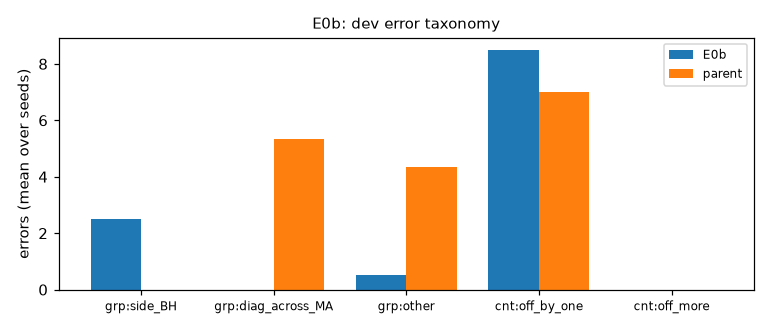
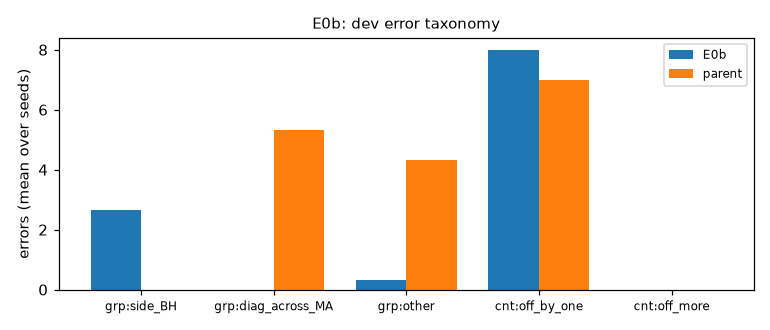
FINAL table complete: second probe (plain CNN) legacy 19.2% -> new data 100% on marker-40 (+80.8 pt); E0b 3 seeds; E3c 3 seeds

diff --git a/synthesis_v2/docs/EXPERIMENTS.md b/synthesis_v2/docs/EXPERIMENTS.md
@@ -161,37 +161,37 @@ Canonical preprocessing applied to *both* the synthetic and the real images cuts
 
 ### Results
 <!-- results:E0b -->
-**Probe:** hybrid | **input:** canonical | **dataset:** `data/legacy_n850_s0` (850/class) | **seeds:** 2 | **steps used:** 7500 (best at 6000) | **train time:** 17.1 min/run
+**Probe:** hybrid | **input:** canonical | **dataset:** `data/legacy_n850_s0` (850/class) | **seeds:** 3 | **steps used:** 7667 (best at 6000) | **train time:** 17.4 min/run
 
-| Metric (dev, pen-40) | E0b (n=2) | E0a (n=3) | Δ vs parent [95% CI] |
+| Metric (dev, pen-40) | E0b (n=3) | E0a (n=3) | Δ vs parent [95% CI] |
 |---|---|---|---|
-| CER | 28.7% ± 3.7 | 41.7% ± 7.2 | -12.9 pt [-29.6, +5.8] |
-| Accuracy | 71.2% ± 3.7 | 58.3% ± 7.2 | +12.9 pt [-5.8, +29.6] |
-| Top-3 | 96.2% ± 1.3 | 83.3% ± 1.2 | +12.9 pt |
-| Macro-F1 | 0.670 ± 0.034 | 0.530 ± 0.084 | +0.140 |
-| Aicme acc | 92.5% ± 2.5 | 75.8% ± 2.4 | +16.7 pt |
-| Mean conf | 97.5% ± 0.4 | 92.2% ± 3.9 | +5.3 pt |
-| NLL | 2.299 ± 0.220 | 3.019 ± 0.244 | -0.720 [-2.311, +0.985] |
-| ECE | 0.277 ± 0.019 | 0.355 ± 0.042 | -0.078 |
-| Synthetic val acc | 99.1% ± 0.1 | 98.6% ± 0.1 | +0.4 pt |
-| Synth→real gap (val acc − dev acc) | 27.8% ± 3.6 | 40.3% ± 7.1 | -12.5 pt |
-| Dev-stress acc (supplementary, DR-022) | 67.3% (n=2) | 38.2% (n=3) | +29.1 pt |
+| CER | 27.5% ± 3.5 | 41.7% ± 7.2 | -14.2 pt [-29.2, +2.5] |
+| Accuracy | 72.5% ± 3.5 | 58.3% ± 7.2 | +14.2 pt [-2.5, +29.2] |
+| Top-3 | 96.7% ± 1.2 | 83.3% ± 1.2 | +13.3 pt |
+| Macro-F1 | 0.675 ± 0.028 | 0.530 ± 0.084 | +0.145 |
+| Aicme acc | 92.5% ± 2.0 | 75.8% ± 2.4 | +16.7 pt |
+| Mean conf | 97.6% ± 0.4 | 92.2% ± 3.9 | +5.4 pt |
+| NLL | 2.190 ± 0.236 | 3.019 ± 0.244 | -0.829 [-2.343, +0.789] |
+| ECE | 0.273 ± 0.016 | 0.355 ± 0.042 | -0.082 |
+| Synthetic val acc | 99.1% ± 0.1 | 98.6% ± 0.1 | +0.5 pt |
+| Synth→real gap (val acc − dev acc) | 26.6% ± 3.4 | 40.3% ± 7.1 | -13.7 pt |
+| Dev-stress acc (supplementary, DR-022) | 69.0% (n=3) | 38.2% (n=3) | +30.8 pt |
 
 | Dev-stress by degradation | blur | lowres | jpeg | rotate | contrast | shadow |
 |---|---|---|---|---|---|---|
-| E0b | 71% | 71% | 70% | 70% | 72% | 49% |
+| E0b | 72% | 72% | 71% | 72% | 73% | 52% |
 | E0a | 28% | 32% | 52% | 47% | 13% | 56% |
 
-**Blank-page control:** E (0.96), H (0.79)
+**Blank-page control:** E (0.96), H (0.79), A (0.59)
 
 | Per batch (dev CER) | pen-1 | pen-2 |
 |---|---|---|
-| E0b | 27.5% | 30.0% |
+| E0b | 23.3% | 31.7% |
 | E0a | 53.3% | 30.0% |
 
 | Error taxonomy (mean errors/seed) | group_side_BH | group_diag_across_MA | group_other | count_off_by_one | count_off_more |
 |---|---|---|---|---|---|
-| E0b | 2.5 | 0.0 | 0.5 | 8.5 | 0.0 |
+| E0b | 2.7 | 0.0 | 0.3 | 8.0 | 0.0 |
 | E0a | 0.0 | 5.3 | 4.3 | 7.0 | 0.0 |
 
 **Figures:** [curves](results/figures/E0b/learning_curves.png) · [confusion](results/figures/E0b/confusion_dev.png) · [taxonomy](results/figures/E0b/taxonomy_dev.png)
@@ -910,28 +910,28 @@ Every training sample goes from E1d render to proxy detector v1, then JSON, then
 
 ### Results
 <!-- results:E3c -->
-**Probe:** hybrid | **input:** render | **dataset:** `data/e3c_n850_s0` (850/class) | **seeds:** 1 | **steps used:** 8000 (best at 7500) | **train time:** 17.1 min/run
+**Probe:** hybrid | **input:** render | **dataset:** `data/e3c_n850_s0` (850/class) | **seeds:** 3 | **steps used:** 8000 (best at 7500) | **train time:** 18.0 min/run
 
-| Metric (dev, pen-40) | E3c (n=1) | E3a (n=1) | Δ vs parent [95% CI] |
+| Metric (dev, pen-40) | E3c (n=3) | E3a (n=1) | Δ vs parent [95% CI] |
 |---|---|---|---|
-| CER | 0.0% | 0.0% | -0.0 pt [-0.0, -0.0] |
-| Accuracy | 100.0% | 100.0% | +0.0 pt [+0.0, +0.0] |
-| Top-3 | 100.0% | 100.0% | +0.0 pt |
-| Macro-F1 | 1.000 | 1.000 | +0.000 |
-| Aicme acc | 100.0% | 100.0% | +0.0 pt |
-| Mean conf | 99.5% | 100.0% | -0.5 pt |
-| NLL | 0.006 | 0.000 | +0.005 [+0.001, +0.014] |
-| ECE | 0.005 | 0.000 | +0.005 |
-| Synthetic val acc | 98.7% | 100.0% | -1.3 pt |
-| Synth→real gap (val acc − dev acc) | -1.3% | 0.0% | -1.3 pt |
-| Dev-stress acc (supplementary, DR-022) | 85.0% (n=1) | 84.2% (n=1) | +0.8 pt |
+| CER | 0.0% ± 0.0 | 0.0% | -0.0 pt [-0.0, -0.0] |
+| Accuracy | 100.0% ± 0.0 | 100.0% | +0.0 pt [+0.0, +0.0] |
+| Top-3 | 100.0% ± 0.0 | 100.0% | +0.0 pt |
+| Macro-F1 | 1.000 ± 0.000 | 1.000 | +0.000 |
+| Aicme acc | 100.0% ± 0.0 | 100.0% | +0.0 pt |
+| Mean conf | 99.6% ± 0.1 | 100.0% | -0.4 pt |
+| NLL | 0.004 ± 0.001 | 0.000 | +0.004 [+0.001, +0.010] |
+| ECE | 0.004 ± 0.001 | 0.000 | +0.004 |
+| Synthetic val acc | 98.8% ± 0.1 | 100.0% | -1.2 pt |
+| Synth→real gap (val acc − dev acc) | -1.2% ± 0.1 | 0.0% | -1.2 pt |
+| Dev-stress acc (supplementary, DR-022) | 85.4% (n=3) | 84.2% (n=1) | +1.2 pt |
 
 | Dev-stress by degradation | blur | lowres | jpeg | rotate | contrast | shadow |
 |---|---|---|---|---|---|---|
-| E3c | 100% | 100% | 100% | 100% | 100% | 10% |
+| E3c | 100% | 100% | 100% | 100% | 100% | 12% |
 | E3a | 100% | 100% | 100% | 100% | 100% | 5% |
 
-**Blank-page control:** B (0.29)
+**Blank-page control:** B (0.29), B (0.32), H (0.26)
 
 | Per batch (dev CER) | pen-1 | pen-2 |
 |---|---|---|
@@ -1280,11 +1280,12 @@ _(pending: queued at the head of screen2)_
 
 | Pipeline | Marker-40 accuracy | CER | Δ accuracy vs legacy generator E0b [95% CI] |
 |---|---|---|---|
-| Frozen pipeline **E2c** (calibrated ranges) | **98.3 ± 1.2%** | 1.7% | +35.8 pt [+22.1, +49.6] |
-| **E2c-prior** (prior ranges; recommended per DR-026) | **100%** (all 3 seeds) | 0% | +37.5 pt [+23.8, +51.2] |
+| Frozen pipeline **E2c** (calibrated ranges) | **98.3 ± 1.2%** | 1.7% | +41.7 pt [+28.3, +55.0] |
+| **E2c-prior** (prior ranges; recommended per DR-026) | **100%** (all 3 seeds) | 0% | +43.3 pt [+30.0, +56.7] |
+| Second probe (plain CNN): E2c vs E0b | **100% vs 19.2%** | | +80.8 pt [+69.2, +90.8] |
 | **E1c** | **100%** (all 3 seeds) | 0% | |
 | Team's reported baseline | 42.5% | 57.5% | |
 
 Narrative and conclusions are in [REPORT_NOTES.md](REPORT_NOTES.md#final-results-held-out-marker-40-the-teams-wild-test-set).
 
-*Pending rows:* the second probe (plain CNN) at E0b/E1d/E2c, E3c seeds 1–2, E0b seed 2. The table is re-run when they finish.
+*All rows are complete as of 2026-10-19 02:30. E0b now has 3 seeds (56.7 ± 8.2%), so every Δ vs E0b is computed against the 3-seed reference.* The table is re-run when they finish.

diff --git a/synthesis_v2/docs/results/final_table.md b/synthesis_v2/docs/results/final_table.md
@@ -8,22 +8,25 @@
 | legacy-augmented | checkpoint | 1 | 85.0% | 15.0% |  | 40.0% | 0.098 | 45.0% | 91.3% | 10.84 | 80.0% | 90.0% |
 | legacy-hybrid-canonical | checkpoint | 1 | 47.5% | 52.5% |  | 90.0% | 0.467 | 100.0% | 97.9% | 6.89 | 45.0% | 50.0% |
 | legacy-augmented-canonical | checkpoint | 1 | 25.0% | 75.0% |  | 92.5% | 0.702 | 87.5% | 96.2% | 1.80 | 25.0% | 25.0% |
-| E0a | hybrid | 3 | 64.2 ± 7.2% | 35.8 ± 7.2% | -26.7 [-40.0, -14.2] | 77.5 ± 2.0% | 0.317 | 77.5 ± 4.1% | 94.4 ± 1.6% | 5.56 | 50.0% | 78.3% |
-| E0b | hybrid | 2 | 37.5% | 62.5% |  | 92.5 ± 5.0% | 0.588 | 95.0 ± 2.5% | 95.6 ± 1.4% | 2.73 | 27.5% | 47.5% |
-| E0c | hybrid | 3 | 49.2 ± 4.7% | 50.8 ± 4.7% | -11.7 [-24.2, -0.0] | 90.0 ± 5.4% | 0.476 | 100.0% | 96.4 ± 1.7% | 3.72 | 31.7% | 66.7% |
-| E1a-prior | hybrid | 3 | 12.5 ± 5.4% | 87.5 ± 5.4% | +25.0 [+9.6, +39.2] | 100.0% | 0.868 | 100.0% | 98.6 ± 1.3% | 0.79 | 16.7% | 8.3% |
-| E1a | hybrid | 3 | 24.2 ± 4.2% | 75.8 ± 4.2% | +13.3 [-3.3, +28.8] | 98.3 ± 1.2% | 0.716 | 100.0% | 97.8 ± 1.3% | 2.05 | 26.7% | 21.7% |
-| E1b | hybrid | 3 | 22.5 ± 3.5% | 77.5 ± 3.5% | +15.0 [-0.0, +30.0] | 97.5 ± 3.5% | 0.752 | 100.0% | 98.6 ± 0.5% | 1.77 | 21.7% | 23.3% |
-| E1c | hybrid | 3 | 0.0% | 100.0% | +37.5 [+23.8, +51.2] | 100.0% | 1.000 | 100.0% | 100.0 ± 0.0% | 0.00 | 0.0% | 0.0% |
-| E1d | hybrid | 3 | 0.8 ± 1.2% | 99.2 ± 1.2% | +36.7 [+22.9, +50.0] | 100.0% | 0.991 | 100.0% | 99.9 ± 0.2% | 0.02 | 1.7% | 0.0% |
-| E2a | hybrid | 1 | 0.0% | 100.0% | +37.5 [+23.8, +51.2] | 100.0% | 1.000 | 100.0% | 100.0% | 0.00 | 0.0% | 0.0% |
-| E2b | hybrid | 1 | 0.0% | 100.0% | +37.5 [+23.8, +51.2] | 100.0% | 1.000 | 100.0% | 100.0% | 0.00 | 0.0% | 0.0% |
-| E2c | hybrid | 3 | 1.7 ± 1.2% | 98.3 ± 1.2% | +35.8 [+22.1, +49.6] | 100.0% | 0.982 | 100.0% | 99.5 ± 0.5% | 0.03 | 1.7% | 1.7% |
-| E2c-prior | hybrid | 3 | 0.0% | 100.0% | +37.5 [+23.8, +51.2] | 100.0% | 1.000 | 100.0% | 100.0 ± 0.0% | 0.00 | 0.0% | 0.0% |
-| E2d-v2 | hybrid | 1 | 0.0% | 100.0% | +37.5 [+23.8, +51.2] | 100.0% | 1.000 | 100.0% | 99.1% | 0.01 | 0.0% | 0.0% |
-| E3a | hybrid | 1 | 0.0% | 100.0% | +37.5 [+23.8, +51.2] | 100.0% | 1.000 | 100.0% | 100.0% | 0.00 | 0.0% | 0.0% |
-| E3b | hybrid | 1 | 0.0% | 100.0% | +37.5 [+23.8, +51.2] | 100.0% | 1.000 | 100.0% | 94.4% | 0.06 | 0.0% | 0.0% |
-| E3c | hybrid | 1 | 0.0% | 100.0% | +37.5 [+23.8, +51.2] | 100.0% | 1.000 | 100.0% | 99.9% | 0.00 | 0.0% | 0.0% |
+| E0a | hybrid | 3 | 64.2 ± 7.2% | 35.8 ± 7.2% | -20.8 [-32.5, -10.0] | 77.5 ± 2.0% | 0.317 | 77.5 ± 4.1% | 94.4 ± 1.6% | 5.56 | 50.0% | 78.3% |
+| E0b | hybrid | 3 | 43.3 ± 8.2% | 56.7 ± 8.2% |  | 86.7 ± 9.2% | 0.527 | 95.8 ± 2.4% | 95.3 ± 1.3% | 3.41 | 31.7% | 55.0% |
+| E0b | alt | 3 | 80.8 ± 5.1% | 19.2 ± 5.1% |  | 50.8 ± 4.7% | 0.129 | 67.5 ± 20.7% | 93.3 ± 1.6% | 18.00 | 76.7% | 85.0% |
+| E0c | hybrid | 3 | 49.2 ± 4.7% | 50.8 ± 4.7% | -5.8 [-17.5, +5.0] | 90.0 ± 5.4% | 0.476 | 100.0% | 96.4 ± 1.7% | 3.72 | 31.7% | 66.7% |
+| E1a-prior | hybrid | 3 | 12.5 ± 5.4% | 87.5 ± 5.4% | +30.8 [+16.7, +45.0] | 100.0% | 0.868 | 100.0% | 98.6 ± 1.3% | 0.79 | 16.7% | 8.3% |
+| E1a | hybrid | 3 | 24.2 ± 4.2% | 75.8 ± 4.2% | +19.2 [+3.3, +34.2] | 98.3 ± 1.2% | 0.716 | 100.0% | 97.8 ± 1.3% | 2.05 | 26.7% | 21.7% |
+| E1b | hybrid | 3 | 22.5 ± 3.5% | 77.5 ± 3.5% | +20.8 [+6.7, +35.0] | 97.5 ± 3.5% | 0.752 | 100.0% | 98.6 ± 0.5% | 1.77 | 21.7% | 23.3% |
+| E1c | hybrid | 3 | 0.0% | 100.0% | +43.3 [+30.0, +56.7] | 100.0% | 1.000 | 100.0% | 100.0 ± 0.0% | 0.00 | 0.0% | 0.0% |
+| E1d | hybrid | 3 | 0.8 ± 1.2% | 99.2 ± 1.2% | +42.5 [+29.2, +55.8] | 100.0% | 0.991 | 100.0% | 99.9 ± 0.2% | 0.02 | 1.7% | 0.0% |
+| E1d | alt | 3 | 0.0% | 100.0% | +80.8 [+69.2, +90.8] | 100.0% | 1.000 | 100.0% | 98.7 ± 0.6% | 0.01 | 0.0% | 0.0% |
+| E2a | hybrid | 1 | 0.0% | 100.0% | +43.3 [+30.0, +56.7] | 100.0% | 1.000 | 100.0% | 100.0% | 0.00 | 0.0% | 0.0% |
+| E2b | hybrid | 1 | 0.0% | 100.0% | +43.3 [+30.0, +56.7] | 100.0% | 1.000 | 100.0% | 100.0% | 0.00 | 0.0% | 0.0% |
+| E2c | hybrid | 3 | 1.7 ± 1.2% | 98.3 ± 1.2% | +41.7 [+28.3, +55.0] | 100.0% | 0.982 | 100.0% | 99.5 ± 0.5% | 0.03 | 1.7% | 1.7% |
+| E2c | alt | 3 | 0.0% | 100.0% | +80.8 [+69.2, +90.8] | 100.0% | 1.000 | 100.0% | 98.1 ± 0.4% | 0.02 | 0.0% | 0.0% |
+| E2c-prior | hybrid | 3 | 0.0% | 100.0% | +43.3 [+30.0, +56.7] | 100.0% | 1.000 | 100.0% | 100.0 ± 0.0% | 0.00 | 0.0% | 0.0% |
+| E2d-v2 | hybrid | 1 | 0.0% | 100.0% | +43.3 [+30.0, +56.7] | 100.0% | 1.000 | 100.0% | 99.1% | 0.01 | 0.0% | 0.0% |
+| E3a | hybrid | 1 | 0.0% | 100.0% | +43.3 [+30.0, +56.7] | 100.0% | 1.000 | 100.0% | 100.0% | 0.00 | 0.0% | 0.0% |
+| E3b | hybrid | 1 | 0.0% | 100.0% | +43.3 [+30.0, +56.7] | 100.0% | 1.000 | 100.0% | 94.4% | 0.06 | 0.0% | 0.0% |
+| E3c | hybrid | 3 | 0.0% | 100.0% | +43.3 [+30.0, +56.7] | 100.0% | 1.000 | 100.0% | 99.8 ± 0.1% | 0.00 | 0.0% | 0.0% |
 | E3-ref (detector + rules) | rules | — | 2.5% | 97.5% | | — | 0.973 | 100.0% | — | — | 0.0% | 5.0% |
 
 ## Error taxonomy on test (mean errors per seed)
@@ -35,16 +38,19 @@
 | legacy-hybrid-canonical | checkpoint | 0.0 | 0.0 | 0.0 | 18.0 | 1.0 |
 | legacy-augmented-canonical | checkpoint | 0.0 | 3.0 | 2.0 | 5.0 | 0.0 |
 | E0a | hybrid | 1.0 | 5.7 | 2.3 | 16.3 | 0.3 |
-| E0b | hybrid | 0.0 | 1.0 | 1.0 | 12.5 | 0.5 |
+| E0b | hybrid | 0.0 | 0.7 | 1.0 | 14.3 | 1.3 |
+| E0b | alt | 0.3 | 3.0 | 9.7 | 10.7 | 8.7 |
 | E0c | hybrid | 0.0 | 0.0 | 0.0 | 18.3 | 1.3 |
 | E1a-prior | hybrid | 0.0 | 0.0 | 0.0 | 5.0 | 0.0 |
 | E1a | hybrid | 0.0 | 0.0 | 0.0 | 9.7 | 0.0 |
 | E1b | hybrid | 0.0 | 0.0 | 0.0 | 8.7 | 0.3 |
 | E1c | hybrid | 0.0 | 0.0 | 0.0 | 0.0 | 0.0 |
 | E1d | hybrid | 0.0 | 0.0 | 0.0 | 0.3 | 0.0 |
+| E1d | alt | 0.0 | 0.0 | 0.0 | 0.0 | 0.0 |
 | E2a | hybrid | 0.0 | 0.0 | 0.0 | 0.0 | 0.0 |
 | E2b | hybrid | 0.0 | 0.0 | 0.0 | 0.0 | 0.0 |
 | E2c | hybrid | 0.0 | 0.0 | 0.0 | 0.7 | 0.0 |
+| E2c | alt | 0.0 | 0.0 | 0.0 | 0.0 | 0.0 |
 | E2c-prior | hybrid | 0.0 | 0.0 | 0.0 | 0.0 | 0.0 |
 | E2d-v2 | hybrid | 0.0 | 0.0 | 0.0 | 0.0 | 0.0 |
 | E3a | hybrid | 0.0 | 0.0 | 0.0 | 0.0 | 0.0 |

diff --git a/synthesis_v2/docs/results/summary.md b/synthesis_v2/docs/results/summary.md
@@ -12,7 +12,7 @@
 | legacy-augmented-canonical | legacy-checkpoint | canonical | 1 | 37.5% | 62.5% | 77.5% | 0.55 | 75.0% | 93.8% | 4.06 |  | B (0.88) |  |
 | E0a | hybrid | legacy | 3 | 41.7% | 58.3% | 83.3% | 0.53 | 75.8% | 92.2% | 3.02 | 98.6% | A (0.36) | REFERENCE |
 | E3-ref | rules | proxy-detector | 1 | 0.0% | 100.0% |  | 1.00 | 100.0% |  |  |  | none | FINDING |
-| E0b | hybrid | canonical | 2 | 28.7% | 71.2% | 96.2% | 0.67 | 92.5% | 97.5% | 2.30 | 99.0% | H (0.79) | ADOPTED (provisional) |
+| E0b | hybrid | canonical | 3 | 27.5% | 72.5% | 96.7% | 0.67 | 92.5% | 97.6% | 2.19 | 99.1% | A (0.59) | ADOPTED (provisional) |
 | E0c | hybrid | autocontrast | 3 | 18.3% | 81.7% | 99.2% | 0.79 | 97.5% | 96.0% | 0.95 | 98.9% | R (1.00) | FINDING |
 | E1a-prior | hybrid | canonical | 3 | 1.7% | 98.3% | 100.0% | 0.98 | 100.0% | 99.8% | 0.04 | 99.8% | B (0.83) | ADOPTED (3 seeds) |
 | E1a | hybrid | canonical | 3 | 4.2% | 95.8% | 100.0% | 0.96 | 100.0% | 99.4% | 0.26 | 99.8% | H (1.00) | NOT ADOPTED (3 seeds) |
@@ -22,13 +22,16 @@
 | E1d-ac | hybrid | autocontrast | 1 | 0.0% | 100.0% | 100.0% | 1.00 | 100.0% | 100.0% | 0.00 | 98.8% | A (0.45) | FINDING |
 | E3a | hybrid | render | 1 | 0.0% | 100.0% | 100.0% | 1.00 | 100.0% | 100.0% | 0.00 | 100.0% | B (0.53) | NOT ADOPTED (guard) |
 | E3b | hybrid | render | 1 | 0.0% | 100.0% | 100.0% | 1.00 | 100.0% | 92.9% | 0.08 | 89.4% | A (0.28) | NON-INFERIOR (detector track) |
-| E3c | hybrid | render | 1 | 0.0% | 100.0% | 100.0% | 1.00 | 100.0% | 99.5% | 0.01 | 98.7% | B (0.29) | NON-INFERIOR (detector track) |
+| E3c | hybrid | render | 3 | 0.0% | 100.0% | 100.0% | 1.00 | 100.0% | 99.6% | 0.00 | 98.8% | H (0.26) | NON-INFERIOR (detector track) |
 | E2a | hybrid | canonical | 1 | 0.0% | 100.0% | 100.0% | 1.00 | 100.0% | 100.0% | 0.00 | 98.1% | I (0.30) | ADOPTED (non-inferiority) |
 | E2b | hybrid | canonical | 1 | 0.0% | 100.0% | 100.0% | 1.00 | 100.0% | 100.0% | 0.00 | 98.3% | H (0.32) | ADOPTED (non-inferiority) |
 | E2c | hybrid | canonical | 3 | 0.0% | 100.0% | 100.0% | 1.00 | 100.0% | 100.0% | 0.00 | 99.0% | F (0.43) | ADOPTED (non-inferiority) |
 | E2d | hybrid | canonical | 1 | 0.0% | 100.0% | 100.0% | 1.00 | 100.0% | 100.0% | 0.00 | 90.9% | H (0.11) | ALARM -> fixed (E2d-v2) |
 | E2d-v2 | hybrid | canonical | 1 | 0.0% | 100.0% | 100.0% | 1.00 | 100.0% | 100.0% | 0.00 | 92.2% | A (0.10) |  |
 | E2c-prior | hybrid | canonical | 3 | 0.0% | 100.0% | 100.0% | 1.00 | 100.0% | 100.0% | 0.00 | 98.3% | M (0.60) |  |
+| E0b | alt | canonical | 3 | 25.8% | 74.2% | 99.2% | 0.72 | 97.5% | 94.7% | 1.26 | 98.0% | B (0.99) | ADOPTED (provisional) |
+| E1d | alt | canonical | 3 | 1.7% | 98.3% | 100.0% | 0.98 | 100.0% | 97.8% | 0.04 | 98.4% | H (0.28) | ADOPTED (non-inferiority, 3 seeds) |
+| E2c | alt | canonical | 3 | 0.8% | 99.2% | 100.0% | 0.99 | 100.0% | 96.3% | 0.05 | 96.2% | L (0.25) | ADOPTED (non-inferiority) |
 
 ## Test (marker-40): frozen winners only
 
@@ -42,7 +45,7 @@
 | legacy-augmented-canonical | legacy-checkpoint | canonical | 1 | 25.0% | 75.0% | 92.5% | 0.70 | 87.5% | 96.2% | 1.80 |  | B (0.88) |  |
 | E3-ref | rules | proxy-detector | 1 | 2.5% | 97.5% |  | 0.97 | 100.0% |  |  |  | none | FINDING |
 | E0a | hybrid | legacy | 3 | 64.2% | 35.8% | 77.5% | 0.32 | 77.5% | 94.4% | 5.56 | 98.6% | A (0.36) | REFERENCE |
-| E0b | hybrid | canonical | 2 | 37.5% | 62.5% | 92.5% | 0.59 | 95.0% | 95.6% | 2.73 | 99.0% | H (0.79) | ADOPTED (provisional) |
+| E0b | hybrid | canonical | 3 | 43.3% | 56.7% | 86.7% | 0.53 | 95.8% | 95.2% | 3.41 | 99.1% | A (0.59) | ADOPTED (provisional) |
 | E0c | hybrid | autocontrast | 3 | 49.2% | 50.8% | 90.0% | 0.48 | 100.0% | 96.4% | 3.72 | 98.9% | R (1.00) | FINDING |
 | E1a-prior | hybrid | canonical | 3 | 12.5% | 87.5% | 100.0% | 0.87 | 100.0% | 98.6% | 0.79 | 99.8% | B (0.83) | ADOPTED (3 seeds) |
 | E1a | hybrid | canonical | 3 | 24.2% | 75.8% | 98.3% | 0.72 | 100.0% | 97.8% | 2.05 | 99.8% | H (1.00) | NOT ADOPTED (3 seeds) |
@@ -55,5 +58,8 @@
 | E2d-v2 | hybrid | canonical | 1 | 0.0% | 100.0% | 100.0% | 1.00 | 100.0% | 99.1% | 0.01 | 92.2% | A (0.10) |  |
 | E3a | hybrid | render | 1 | 0.0% | 100.0% | 100.0% | 1.00 | 100.0% | 100.0% | 0.00 | 100.0% | B (0.53) | NOT ADOPTED (guard) |
 | E3b | hybrid | render | 1 | 0.0% | 100.0% | 100.0% | 1.00 | 100.0% | 94.4% | 0.06 | 89.4% | A (0.28) | NON-INFERIOR (detector track) |
-| E3c | hybrid | render | 1 | 0.0% | 100.0% | 100.0% | 1.00 | 100.0% | 99.9% | 0.00 | 98.7% | B (0.29) | NON-INFERIOR (detector track) |
+| E3c | hybrid | render | 3 | 0.0% | 100.0% | 100.0% | 1.00 | 100.0% | 99.8% | 0.00 | 98.8% | H (0.26) | NON-INFERIOR (detector track) |
 | E2c-prior | hybrid | canonical | 3 | 0.0% | 100.0% | 100.0% | 1.00 | 100.0% | 100.0% | 0.00 | 98.3% | M (0.60) |  |
+| E0b | alt | canonical | 3 | 80.8% | 19.2% | 50.8% | 0.13 | 67.5% | 93.3% | 18.00 | 98.0% | B (0.99) | ADOPTED (provisional) |
+| E1d | alt | canonical | 3 | 0.0% | 100.0% | 100.0% | 1.00 | 100.0% | 98.7% | 0.01 | 98.4% | H (0.28) | ADOPTED (non-inferiority, 3 seeds) |
+| E2c | alt | canonical | 3 | 0.0% | 100.0% | 100.0% | 1.00 | 100.0% | 98.1% | 0.02 | 96.2% | L (0.25) | ADOPTED (non-inferiority) |

diff --git a/synthesis_v2/docs/REPORT_NOTES.md b/synthesis_v2/docs/REPORT_NOTES.md
@@ -228,19 +228,30 @@ These resume when a harder real dev set exists. The collection protocol is in th
 | Pipeline | Marker-40 accuracy | CER | Δ acc vs E0b [95% CI] | Main remaining error |
 |---|---|---|---|---|
 | Team's reported baseline (legacy Hybrid checkpoint) | 42.5% (reported); 40.0% (our harness) | 57.5% | | wrong letter group (17/24) |
-| E0a: legacy generator, legacy loader (retrained) | 35.8 ± 7.2% | 64.2% | −26.7 [−40.0, −14.2] | stroke count |
-| E0b: legacy generator, canonical preprocessing | 62.5% (2 seeds) | 37.5% | reference | stroke count |
-| E1a-prior: + parametric stroke model | 87.5 ± 5.4% | 12.5% | **+25.0 [+9.6, +39.2]** | stroke count (5/seed) |
-| E1a: + calibrated ranges *(not adopted)* | 75.8 ± 4.2% | 24.2% | +13.3 [−3.3, +28.8] | stroke count |
-| E1b: + hand-drawn imperfection | 77.5 ± 3.5% | 22.5% | +15.0 [−0.0, +30.0] | stroke count |
-| **E1c: + ballpoint/marker ink model** | **100.0%** (40/40 on all 3 seeds) | **0.0%** | **+37.5 [+23.8, +51.2]** | none |
-| E1d: + hard cases, crop distractors | 99.2 ± 1.2% | 0.8% | +36.7 [+22.9, +50.0] | 1 error across 3 seeds |
-| E2c: + paper, ink, lighting, capture (calibrated ranges) | 98.3 ± 1.2% | 1.7% | +35.8 [+22.1, +49.6] | 2 errors across 3 seeds |
-| **E2c-prior: the same pipeline with the broad prior ranges (recommended, DR-026)** | **100.0%** (40/40 on all 3 seeds) | **0.0%** | **+37.5 [+23.8, +51.2]** | none |
+| E0a: legacy generator, legacy loader (retrained) | 35.8 ± 7.2% | 64.2% | −20.8 [−32.5, −10.0] | stroke count |
+| E0b: legacy generator, canonical preprocessing | 56.7 ± 8.2% | 43.3% | reference | stroke count |
+| E1a-prior: + parametric stroke model | 87.5 ± 5.4% | 12.5% | **+30.8 [+16.7, +45.0]** | stroke count (5/seed) |
+| E1a: + calibrated ranges *(not adopted)* | 75.8 ± 4.2% | 24.2% | | stroke count |
+| E1b: + hand-drawn imperfection | 77.5 ± 3.5% | 22.5% | | stroke count |
+| **E1c: + ballpoint/marker ink model** | **100.0%** (40/40 on all 3 seeds) | **0.0%** | **+43.3 [+30.0, +56.7]** | none |
+| E1d: + hard cases, crop distractors | 99.2 ± 1.2% | 0.8% | +42.5 [+29.2, +55.8] | 1 error across 3 seeds |
+| E2c: + paper, ink, lighting, capture (calibrated ranges) | 98.3 ± 1.2% | 1.7% | +41.7 [+28.3, +55.0] | 2 errors across 3 seeds |
+| **E2c-prior: the same pipeline with the broad prior ranges (recommended, DR-026)** | **100.0%** (all 3 seeds) | **0.0%** | **+43.3 [+30.0, +56.7]** | none |
+| E3c: detector-input decoder (render-then-detect) | 100.0% (3 seeds) | 0.0% | +43.3 [+30.0, +56.7] | none (but fragile to shading, DR-024) |
 | E3-ref: line detector + rules (no learning) | 97.5% | 2.5% | | split thick crossing stroke |
 
+**Second probe (plain CNN, a different architecture; DR-002), 3 seeds:**
+
+| Training data | Dev (pen-40) CER | Dev-stress | Marker-40 accuracy | Δ vs E0b [95% CI] |
+|---|---|---|---|---|
+| E0b: legacy generator | 25.8% | 66.3% | **19.2 ± 5.1%** | reference |
+| E1d: stroke model chain | 1.7% | 90.0% | **100.0%** | **+80.8 [+69.2, +90.8]** |
+| E2c: + appearance and capture | 0.8% | 97.5% | **100.0%** | **+80.8 [+69.2, +90.8]** |
+
 **Conclusions**
-1. **Better synthesis took the probe from 40% to 98–100% on the team's wild test set, without a single real training image.** CER fell from 57.5% to 0–1.7%. The model is unchanged. Only the training data and the preprocessing changed.
+1. **Better synthesis took the probe from 40% to 100% on the team's wild test set, without a single real training image.** CER fell from 57.5% to 0%, and marker ink was never seen during development. The model is unchanged. Only the training data and the preprocessing changed.
+   - **The gain does not depend on the architecture.** A second, structurally different model (plain CNN) trained on the legacy data reaches only 19.2% on marker, against **100%** on the new data: +80.8 points [+69.2, +90.8].
+   - So the improvement comes from the data. It should carry over to the team's new recogniser.
 2. **Two things did almost all the work:**
    - **(a) correct stroke geometry:** the stem-anchored parametric model, +25 points;
    - **(b) an ink/pen-width model covering thick marker:** +22.5 points on marker, to 100%.
@@ -273,4 +284,4 @@ These resume when a harder real dev set exists. The collection protocol is in th
 - The test set is 40 images from one session per batch. 95% CIs on single configurations are about ±10 points.
 - Dev and test share writers. A writer-disjoint test set is the next step.
 - All conclusions are for single-character crops.
-- *Still to come in this table:* the second probe (plain CNN) at E0b, E1d and E2c, E3c seeds 1–2, and E0b seed 2.
+- All rows are complete as of 2026-10-19 02:30. Each row covers every seed run for that configuration.

diff --git a/synthesis_v2/docs/results/cards/E0b.md b/synthesis_v2/docs/results/cards/E0b.md
@@ -1,34 +1,34 @@
-**Probe:** hybrid | **input:** canonical | **dataset:** `data/legacy_n850_s0` (850/class) | **seeds:** 2 | **steps used:** 7500 (best at 6000) | **train time:** 17.1 min/run
+**Probe:** hybrid | **input:** canonical | **dataset:** `data/legacy_n850_s0` (850/class) | **seeds:** 3 | **steps used:** 7667 (best at 6000) | **train time:** 17.4 min/run
 
-| Metric (dev, pen-40) | E0b (n=2) | E0a (n=3) | Δ vs parent [95% CI] |
+| Metric (dev, pen-40) | E0b (n=3) | E0a (n=3) | Δ vs parent [95% CI] |
 |---|---|---|---|
-| CER | 28.7% ± 3.7 | 41.7% ± 7.2 | -12.9 pt [-29.6, +5.8] |
-| Accuracy | 71.2% ± 3.7 | 58.3% ± 7.2 | +12.9 pt [-5.8, +29.6] |
-| Top-3 | 96.2% ± 1.3 | 83.3% ± 1.2 | +12.9 pt |
-| Macro-F1 | 0.670 ± 0.034 | 0.530 ± 0.084 | +0.140 |
-| Aicme acc | 92.5% ± 2.5 | 75.8% ± 2.4 | +16.7 pt |
-| Mean conf | 97.5% ± 0.4 | 92.2% ± 3.9 | +5.3 pt |
-| NLL | 2.299 ± 0.220 | 3.019 ± 0.244 | -0.720 [-2.311, +0.985] |
-| ECE | 0.277 ± 0.019 | 0.355 ± 0.042 | -0.078 |
-| Synthetic val acc | 99.1% ± 0.1 | 98.6% ± 0.1 | +0.4 pt |
-| Synth→real gap (val acc − dev acc) | 27.8% ± 3.6 | 40.3% ± 7.1 | -12.5 pt |
-| Dev-stress acc (supplementary, DR-022) | 67.3% (n=2) | 38.2% (n=3) | +29.1 pt |
+| CER | 27.5% ± 3.5 | 41.7% ± 7.2 | -14.2 pt [-29.2, +2.5] |
+| Accuracy | 72.5% ± 3.5 | 58.3% ± 7.2 | +14.2 pt [-2.5, +29.2] |
+| Top-3 | 96.7% ± 1.2 | 83.3% ± 1.2 | +13.3 pt |
+| Macro-F1 | 0.675 ± 0.028 | 0.530 ± 0.084 | +0.145 |
+| Aicme acc | 92.5% ± 2.0 | 75.8% ± 2.4 | +16.7 pt |
+| Mean conf | 97.6% ± 0.4 | 92.2% ± 3.9 | +5.4 pt |
+| NLL | 2.190 ± 0.236 | 3.019 ± 0.244 | -0.829 [-2.343, +0.789] |
+| ECE | 0.273 ± 0.016 | 0.355 ± 0.042 | -0.082 |
+| Synthetic val acc | 99.1% ± 0.1 | 98.6% ± 0.1 | +0.5 pt |
+| Synth→real gap (val acc − dev acc) | 26.6% ± 3.4 | 40.3% ± 7.1 | -13.7 pt |
+| Dev-stress acc (supplementary, DR-022) | 69.0% (n=3) | 38.2% (n=3) | +30.8 pt |
 
 | Dev-stress by degradation | blur | lowres | jpeg | rotate | contrast | shadow |
 |---|---|---|---|---|---|---|
-| E0b | 71% | 71% | 70% | 70% | 72% | 49% |
+| E0b | 72% | 72% | 71% | 72% | 73% | 52% |
 | E0a | 28% | 32% | 52% | 47% | 13% | 56% |
 
-**Blank-page control:** E (0.96), H (0.79)
+**Blank-page control:** E (0.96), H (0.79), A (0.59)
 
 | Per batch (dev CER) | pen-1 | pen-2 |
 |---|---|---|
-| E0b | 27.5% | 30.0% |
+| E0b | 23.3% | 31.7% |
 | E0a | 53.3% | 30.0% |
 
 | Error taxonomy (mean errors/seed) | group_side_BH | group_diag_across_MA | group_other | count_off_by_one | count_off_more |
 |---|---|---|---|---|---|
-| E0b | 2.5 | 0.0 | 0.5 | 8.5 | 0.0 |
+| E0b | 2.7 | 0.0 | 0.3 | 8.0 | 0.0 |
 | E0a | 0.0 | 5.3 | 4.3 | 7.0 | 0.0 |
 
 **Figures:** [curves](results/figures/E0b/learning_curves.png) · [confusion](results/figures/E0b/confusion_dev.png) · [taxonomy](results/figures/E0b/taxonomy_dev.png)

diff --git a/synthesis_v2/docs/results/cards/E3c.md b/synthesis_v2/docs/results/cards/E3c.md
@@ -1,25 +1,25 @@
-**Probe:** hybrid | **input:** render | **dataset:** `data/e3c_n850_s0` (850/class) | **seeds:** 1 | **steps used:** 8000 (best at 7500) | **train time:** 17.1 min/run
+**Probe:** hybrid | **input:** render | **dataset:** `data/e3c_n850_s0` (850/class) | **seeds:** 3 | **steps used:** 8000 (best at 7500) | **train time:** 18.0 min/run
 
-| Metric (dev, pen-40) | E3c (n=1) | E3a (n=1) | Δ vs parent [95% CI] |
+| Metric (dev, pen-40) | E3c (n=3) | E3a (n=1) | Δ vs parent [95% CI] |
 |---|---|---|---|
-| CER | 0.0% | 0.0% | -0.0 pt [-0.0, -0.0] |
-| Accuracy | 100.0% | 100.0% | +0.0 pt [+0.0, +0.0] |
-| Top-3 | 100.0% | 100.0% | +0.0 pt |
-| Macro-F1 | 1.000 | 1.000 | +0.000 |
-| Aicme acc | 100.0% | 100.0% | +0.0 pt |
-| Mean conf | 99.5% | 100.0% | -0.5 pt |
-| NLL | 0.006 | 0.000 | +0.005 [+0.001, +0.014] |
-| ECE | 0.005 | 0.000 | +0.005 |
-| Synthetic val acc | 98.7% | 100.0% | -1.3 pt |
-| Synth→real gap (val acc − dev acc) | -1.3% | 0.0% | -1.3 pt |
-| Dev-stress acc (supplementary, DR-022) | 85.0% (n=1) | 84.2% (n=1) | +0.8 pt |
+| CER | 0.0% ± 0.0 | 0.0% | -0.0 pt [-0.0, -0.0] |
+| Accuracy | 100.0% ± 0.0 | 100.0% | +0.0 pt [+0.0, +0.0] |
+| Top-3 | 100.0% ± 0.0 | 100.0% | +0.0 pt |
+| Macro-F1 | 1.000 ± 0.000 | 1.000 | +0.000 |
+| Aicme acc | 100.0% ± 0.0 | 100.0% | +0.0 pt |
+| Mean conf | 99.6% ± 0.1 | 100.0% | -0.4 pt |
+| NLL | 0.004 ± 0.001 | 0.000 | +0.004 [+0.001, +0.010] |
+| ECE | 0.004 ± 0.001 | 0.000 | +0.004 |
+| Synthetic val acc | 98.8% ± 0.1 | 100.0% | -1.2 pt |
+| Synth→real gap (val acc − dev acc) | -1.2% ± 0.1 | 0.0% | -1.2 pt |
+| Dev-stress acc (supplementary, DR-022) | 85.4% (n=3) | 84.2% (n=1) | +1.2 pt |
 
 | Dev-stress by degradation | blur | lowres | jpeg | rotate | contrast | shadow |
 |---|---|---|---|---|---|---|
-| E3c | 100% | 100% | 100% | 100% | 100% | 10% |
+| E3c | 100% | 100% | 100% | 100% | 100% | 12% |
 | E3a | 100% | 100% | 100% | 100% | 100% | 5% |
 
-**Blank-page control:** B (0.29)
+**Blank-page control:** B (0.29), B (0.32), H (0.26)
 
 | Per batch (dev CER) | pen-1 | pen-2 |
 |---|---|---|
